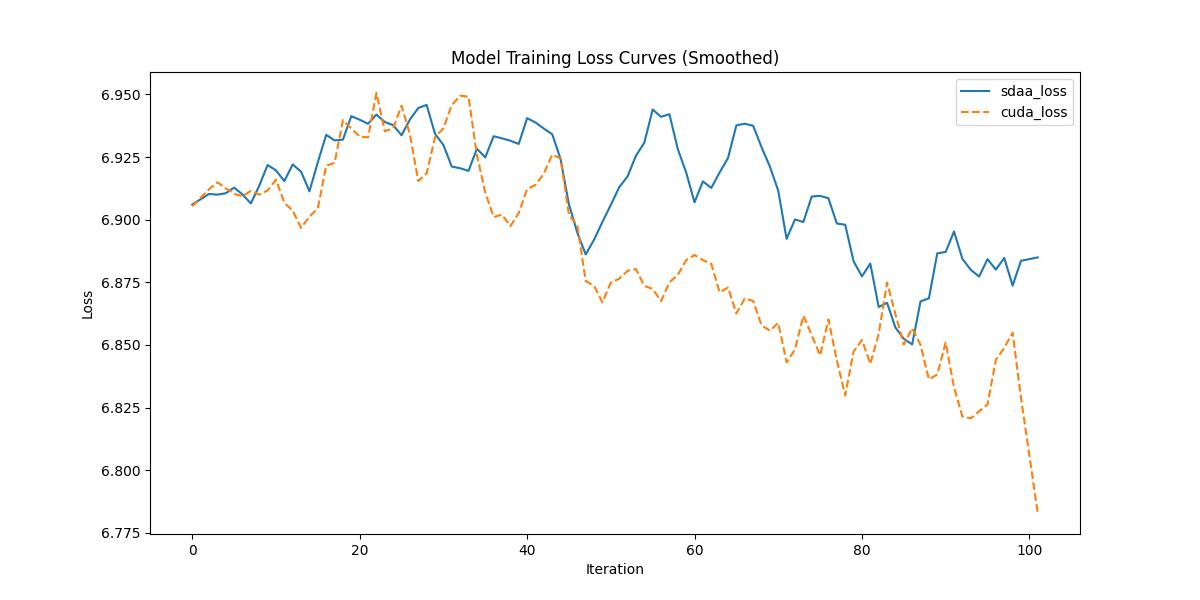
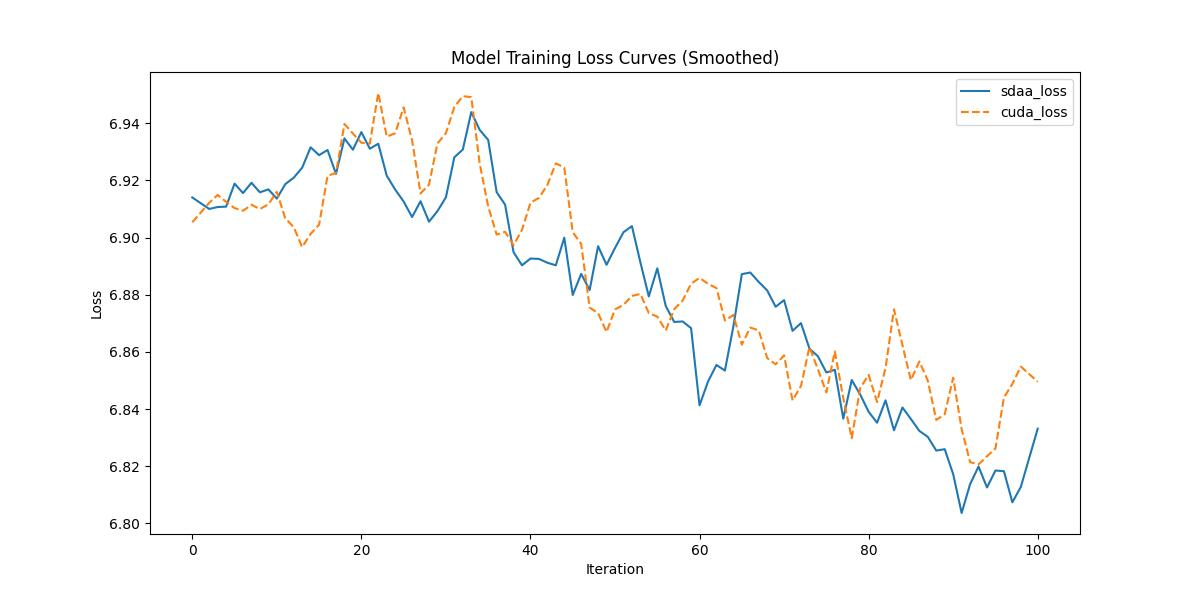
train RegNet on Imagenet

diff --git a/PyTorch/contrib/Classification/RegNet/run_scripts/loss.py b/PyTorch/contrib/Classification/RegNet/run_scripts/loss.py
@@ -60,12 +60,15 @@ def compare_loss(benchmark_loss_array, sdaa_loss_array):
         return False, print_str
 
 def parse_string(string):
-    #默认取rank 0 进行对比，这里根据情况修改
-    pattern=r"rank: 0 train.loss : ([\d\.e-]+)"
-    pattern1=r"loss ([\d\.e-]+)"
-    match = re.findall(pattern, string)  or re.findall(pattern1, string)
-    print("xxxxx",match)
-    return match
+    # 匹配 rank 后有无空格都可以，兼容 cuda.log 和 sdaa.log
+    pattern = r"rank\s*:\s*0\s+train\.loss\s*:\s*([\d\.e-]+)"
+    matches = []
+    for line in string.splitlines():
+        match = re.search(pattern, line)
+        if match:
+            matches.append(match.group(1))
+    print("xxxxx", matches)
+    return matches
 
 def parse_loss(ret_list):
     step_num=len(ret_list)
